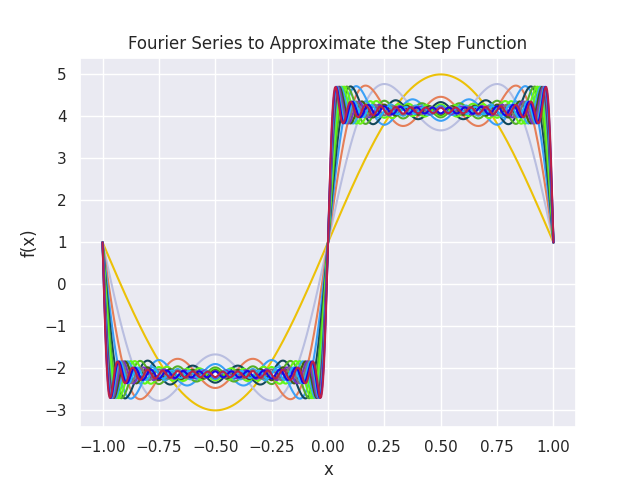
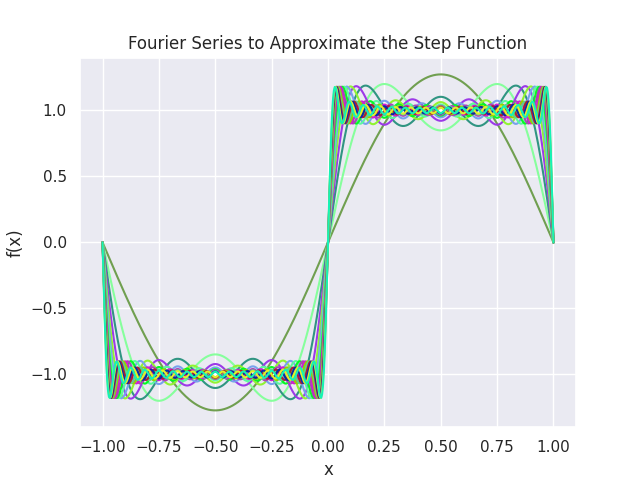
general

diff --git a/06-Fourier_Transform.py b/06-Fourier_Transform.py
@@ -10,20 +10,21 @@ i = 0.001
 t = np.arange(1, limit, i)
 
 # create composite signal a(t)
-f = 1
-a = 1
-while f < 12:
+f = 0
+a = 0
+limit = 12
+while f < limit:
     a += (f ^ 2)*np.sin(2*np.pi*f*t)
     f += 4
 
 # Analysing Function dot product g(t)
 i = 0 + 1j
-f = 1
-while f < 12:
+f = 0
+while f < limit:
     g = a*np.exp(-i*2*np.pi*f*t)
     col = (np.random.random(), np.random.random(), np.random.random())
     plt.plot(g.real, g.imag, color=col, label="Original Signal")
-    f += 5
+    f += 4
 
 plt.title('Function g(f)')
 plt.ylabel('Imaginary')

diff --git a/105_Wavelets_Finance.py b/105_Wavelets_Finance.py
@@ -1,11 +1,12 @@
-import pywt
+import matplotlib.gridspec as gridspec
+import matplotlib.pyplot as plt
 import numpy as np
 import pandas as pd
+import pywt
 from scipy.fftpack import fft
-import matplotlib.pyplot as plt
-import matplotlib.gridspec as gridspec
 
-# Load the el-Nino time-series dataset
+# Google time-series dataset
+
 dataset = "https://raw.githubusercontent.com/taspinar/siml/master/datasets/sst_nino3.dat.txt"
 df_nino = pd.read_table(dataset)
 N = df_nino.shape[0]

diff --git a/05-Fourier Series_Step_Funtion_2.py b/05-Fourier Series_Step_Funtion_2.py
@@ -6,14 +6,15 @@ import seaborn as sns
 sns.set()
 
 x = np.linspace(-1, 1, 500)
-y = 1
+y = 0
 i = 1
+limit = 32
 
-while i < 31:
-    y += 4*np.sin(i*np.pi*x)/i
+while i < limit:
+    y += 4*np.sin(i*np.pi*x)/(i*np.pi)
+    i += 2
     col = (np.random.random(), np.random.random(), np.random.random())
     plt.plot(x, y, color=col)
-    i += 2
 
 plt.title('Fourier Series to Approximate the Step Function')
 plt.xlabel('x')

diff --git a/06_Scanogram.py b/06_Scanogram.py
@@ -9,7 +9,6 @@ from collections import Counter
 import matplotlib.pyplot as plt
 import matplotlib.gridspec as gridspec
 from mpl_toolkits.axes_grid1 import make_axes_locatable
-
 import matplotlib.pyplot as plt
 import matplotlib.gridspec as gridspec
 import matplotlib.patches as patches
